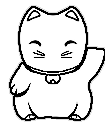
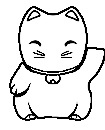
Update to SDK4
Modified PNG images because Diorite can not recognize it is transparent if the transparent part has color values
Date and time will move to top and the rest will move to bottom when Quick View appears

diff --git a/src/c/main.c b/src/c/main.c
@@ -68,6 +68,11 @@ static GRect hand_to_rect;
 static GRect lip_rect;
 static GRect battery_rect;
 static GRect bluetooth_rect;
+static GRect batterytext_rect;
+static GRect phone_batterytext_rect;		
+static GRect text_date_rect;
+static GRect text_time_rect;
+
 static char time_text[] = "00:00";
 static char time_text_buffer[] = "00:00";
 static char date_text_string[12];
@@ -277,9 +282,74 @@ void handle_minute_tick(struct tm *tick_time, TimeUnits units_changed) {
 	
 }
 
-static void window_load(Window *window) {
+void updateLayers(){
+	layer_set_frame(text_layer_get_layer(text_time_layer), text_time_rect);
+	layer_set_frame(text_layer_get_layer(text_date_layer), text_date_rect);
+	layer_set_frame(text_layer_get_layer(batterytext_layer), batterytext_rect);
+	layer_set_frame(text_layer_get_layer(phone_batterytext_layer), phone_batterytext_rect);
+	layer_set_frame(bitmap_layer_get_layer(handLayer1), hand_from_rect);
+	layer_set_frame(bitmap_layer_get_layer(handLayer2), hand_from_rect);
+	layer_set_frame(bitmap_layer_get_layer(nekoLayer), neko_rect);
+	layer_set_frame(bitmap_layer_get_layer(lipLayer), lip_rect);
+	layer_set_frame(bitmap_layer_get_layer(mouthLayer), mouth_from_rect);
+	layer_set_frame(bitmap_layer_get_layer(batteryLayer), battery_rect);
+	layer_set_frame(bitmap_layer_get_layer(bluetoothLayer), bluetooth_rect);
+}
 
+void calLayersPosition() {
+	bool quickViewAppeared = false;
+	int quickViewHeightDiff = 0;
+	
     Layer *rootLayer = window_get_root_layer(window);
+	
+	GRect fullscreen = layer_get_bounds(rootLayer);
+    GRect unobstructed_bounds = layer_get_unobstructed_bounds(rootLayer);
+	quickViewHeightDiff = fullscreen.size.h - unobstructed_bounds.size.h;
+	if (quickViewHeightDiff > 0){
+		quickViewAppeared = true;
+	}
+	
+  if (!quickViewAppeared){
+		neko_rect = GRect(PBL_IF_ROUND_ELSE(39,19), 0, 105, 130);
+		mouth_from_rect = GRect(PBL_IF_ROUND_ELSE(86,66), 52, 12, 8);
+		mouth_to_rect = GRect(PBL_IF_ROUND_ELSE(86,66), 59, 12, 8);
+		hand_from_rect = GRect(PBL_IF_ROUND_ELSE(117,97), 30, 37, 27);
+		hand_to_rect = GRect(PBL_IF_ROUND_ELSE(117,97), 45, 37, 27);
+		lip_rect = GRect(PBL_IF_ROUND_ELSE(84,64), 47, 16, 13);  //mouth x-2 y-5
+		
+		battery_rect = GRect(PBL_IF_ROUND_ELSE(15,8),PBL_IF_ROUND_ELSE(75,1),20,20);
+		bluetooth_rect = GRect(PBL_IF_ROUND_ELSE(150,121),PBL_IF_ROUND_ELSE(82,2),20,20);
+    	batterytext_rect = GRect(PBL_IF_ROUND_ELSE(10,3),PBL_IF_ROUND_ELSE(90,18),30,20);
+    	phone_batterytext_rect = GRect(PBL_IF_ROUND_ELSE(145,119),PBL_IF_ROUND_ELSE(90,18),25,20);
+		
+		text_date_rect = GRect(0, 145, PBL_IF_ROUND_ELSE(180,144), 35);
+    	text_time_rect = GRect(0, 115, PBL_IF_ROUND_ELSE(180,144), 53);
+	}else{
+		neko_rect = GRect(PBL_IF_ROUND_ELSE(39,19), 0 + quickViewHeightDiff, 105, 130);
+		mouth_from_rect = GRect(PBL_IF_ROUND_ELSE(86,66), 52 + quickViewHeightDiff, 12, 8);
+		mouth_to_rect = GRect(PBL_IF_ROUND_ELSE(86,66), 59 + quickViewHeightDiff, 12, 8);
+		hand_from_rect = GRect(PBL_IF_ROUND_ELSE(117,97), 30 + quickViewHeightDiff, 37, 27);
+		hand_to_rect = GRect(PBL_IF_ROUND_ELSE(117,97), 45 + quickViewHeightDiff, 37, 27);
+		lip_rect = GRect(PBL_IF_ROUND_ELSE(84,64), 47 + quickViewHeightDiff, 16, 13);  //mouth x-2 y-5
+		
+		battery_rect = GRect(PBL_IF_ROUND_ELSE(15,8),PBL_IF_ROUND_ELSE(75,1 + quickViewHeightDiff),20,20);
+		bluetooth_rect = GRect(PBL_IF_ROUND_ELSE(150,121),PBL_IF_ROUND_ELSE(82,2 + quickViewHeightDiff),20,20);
+    	batterytext_rect = GRect(PBL_IF_ROUND_ELSE(10,3),PBL_IF_ROUND_ELSE(90,18 + quickViewHeightDiff),30,20);
+    	phone_batterytext_rect = GRect(PBL_IF_ROUND_ELSE(145,119),PBL_IF_ROUND_ELSE(90,18 + quickViewHeightDiff),25,20);
+		
+		text_date_rect = GRect(0, 30, PBL_IF_ROUND_ELSE(180,144), 35);
+    	text_time_rect = GRect(0, 0, PBL_IF_ROUND_ELSE(180,144), 53);
+	}
+}
+
+static void prv_unobstructed_did_change(void *context) {
+	calLayersPosition();
+	updateLayers();
+}
+
+static void window_load(Window *window) {
+	Layer *rootLayer = window_get_root_layer(window);
+	calLayersPosition();
 	
 	neko = gbitmap_create_with_resource(RESOURCE_ID_IMAGE_NEKO_SMALL);
     mouth = gbitmap_create_with_resource(RESOURCE_ID_IMAGE_MOUTH);
@@ -289,16 +359,6 @@ static void window_load(Window *window) {
 	disconnect = gbitmap_create_with_resource(RESOURCE_ID_IMAGE_DISCONNECT_2);
 	battery = gbitmap_create_with_resource(RESOURCE_ID_IMAGE_BATTERY_2);
 	nothing = gbitmap_create_with_resource(RESOURCE_ID_IMAGE_NOTHING_2);
-	
-	neko_rect = GRect(PBL_IF_ROUND_ELSE(39,19), 0, 105, 130);
-	
-	mouth_from_rect = GRect(PBL_IF_ROUND_ELSE(86,66), 52, 12, 8);
-	mouth_to_rect = GRect(PBL_IF_ROUND_ELSE(86,66), 59, 12, 8);
-	hand_from_rect = GRect(PBL_IF_ROUND_ELSE(117,97), 30, 37, 27);
-	hand_to_rect = GRect(PBL_IF_ROUND_ELSE(117,97), 45, 37, 27);
-	lip_rect = GRect(PBL_IF_ROUND_ELSE(84,64), 47, 16, 13);  //mouth x-2 y-5
-	battery_rect = GRect(PBL_IF_ROUND_ELSE(15,8),PBL_IF_ROUND_ELSE(75,1),20,20);
-	bluetooth_rect = GRect(PBL_IF_ROUND_ELSE(150,121),PBL_IF_ROUND_ELSE(82,2),20,20);
 	
 	batteryLayer = bitmap_layer_create(battery_rect);
 	#if defined(PBL_COLOR)
@@ -343,34 +403,34 @@ static void window_load(Window *window) {
 	
 	layer_add_child(rootLayer, bitmap_layer_get_layer(handLayer1));
 	layer_add_child(rootLayer, bitmap_layer_get_layer(handLayer2));
+	
+	batterytext_layer = text_layer_create(batterytext_rect);
+    phone_batterytext_layer = text_layer_create(phone_batterytext_rect);
 		
-	text_date_layer = text_layer_create(GRect(0, 145, PBL_IF_ROUND_ELSE(180,144), 35));
-    text_layer_set_text_color(text_date_layer, text_color);
+	text_date_layer = text_layer_create(text_date_rect);
+    text_time_layer = text_layer_create(text_time_rect);
+	
+	text_layer_set_text_color(text_date_layer, text_color);
     text_layer_set_background_color(text_date_layer, GColorClear);
     text_layer_set_text_alignment(text_date_layer, GTextAlignmentCenter);
     text_layer_set_font(text_date_layer, fonts_get_system_font(FONT_KEY_GOTHIC_18));
     layer_add_child(rootLayer, text_layer_get_layer(text_date_layer));
 	
 	
-	text_time_layer = text_layer_create(GRect(0, 115, PBL_IF_ROUND_ELSE(180,144), 53));
-    text_layer_set_text_color(text_time_layer, text_color);
+	text_layer_set_text_color(text_time_layer, text_color);
     text_layer_set_background_color(text_time_layer, GColorClear);
     text_layer_set_text_alignment(text_time_layer, GTextAlignmentCenter);
     text_layer_set_font(text_time_layer, fonts_get_system_font(FONT_KEY_BITHAM_34_MEDIUM_NUMBERS));
     layer_add_child(rootLayer, text_layer_get_layer(text_time_layer));
 	
-	//battery_rect = GRect(PBL_IF_ROUND_ELSE(15,8),PBL_IF_ROUND_ELSE(75,5),20,20);
-	batterytext_layer = text_layer_create(GRect(PBL_IF_ROUND_ELSE(10,3),PBL_IF_ROUND_ELSE(90,18),30,20));
-    text_layer_set_text_color(batterytext_layer, text_color);
+	text_layer_set_text_color(batterytext_layer, text_color);
     text_layer_set_background_color(batterytext_layer, GColorClear);
     text_layer_set_font(batterytext_layer, fonts_get_system_font(FONT_KEY_GOTHIC_14));
     text_layer_set_text_alignment(batterytext_layer, GTextAlignmentCenter);
 	layer_add_child(rootLayer, text_layer_get_layer(batterytext_layer));
 	
 	
-	//bluetooth_rect = GRect(PBL_IF_ROUND_ELSE(150,122),PBL_IF_ROUND_ELSE(82,2),20,20);
-	phone_batterytext_layer = text_layer_create(GRect(PBL_IF_ROUND_ELSE(145,119),PBL_IF_ROUND_ELSE(90,18),25,20));
-    text_layer_set_text_color(phone_batterytext_layer, text_color);
+	text_layer_set_text_color(phone_batterytext_layer, text_color);
     text_layer_set_background_color(phone_batterytext_layer, GColorClear);
     text_layer_set_font(phone_batterytext_layer, fonts_get_system_font(FONT_KEY_GOTHIC_14));
     text_layer_set_text_alignment(phone_batterytext_layer, GTextAlignmentCenter);
@@ -650,11 +710,17 @@ static void init(void) {
 	battery_state_service_subscribe(&handle_battery);
 	
 	#ifdef PBL_SDK_2
+	APP_LOG(APP_LOG_LEVEL_DEBUG, "SDK2");
 	bluetooth_connection_service_subscribe(handle_bluetooth);
 	#elif PBL_SDK_3
+	APP_LOG(APP_LOG_LEVEL_DEBUG, "SDK3");
 	connection_service_subscribe((ConnectionHandlers) {
 	  .pebble_app_connection_handler = handle_bluetooth
 	});
+	UnobstructedAreaHandlers handler = {
+    .did_change = prv_unobstructed_did_change
+  	};
+  	unobstructed_area_service_subscribe(handler, NULL);
 	#endif
 	
 	// init AppSync
@@ -675,6 +741,7 @@ static void deinit(void) {
 	bluetooth_connection_service_unsubscribe();
 	#elif PBL_SDK_3
 	connection_service_unsubscribe();
+	unobstructed_area_service_unsubscribe();
 	#endif
 	
 	deinit_sync();
